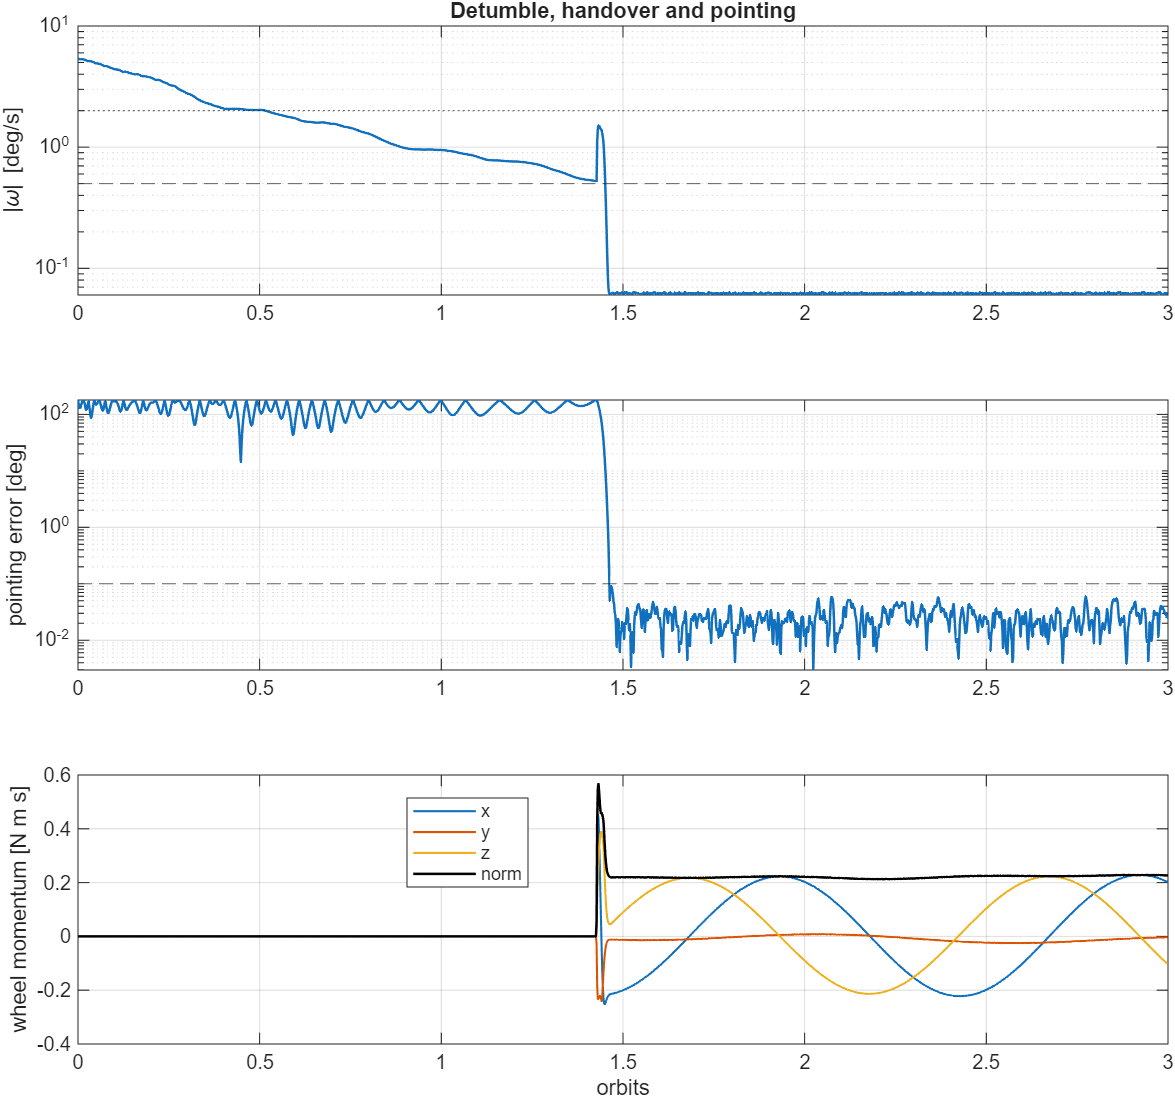
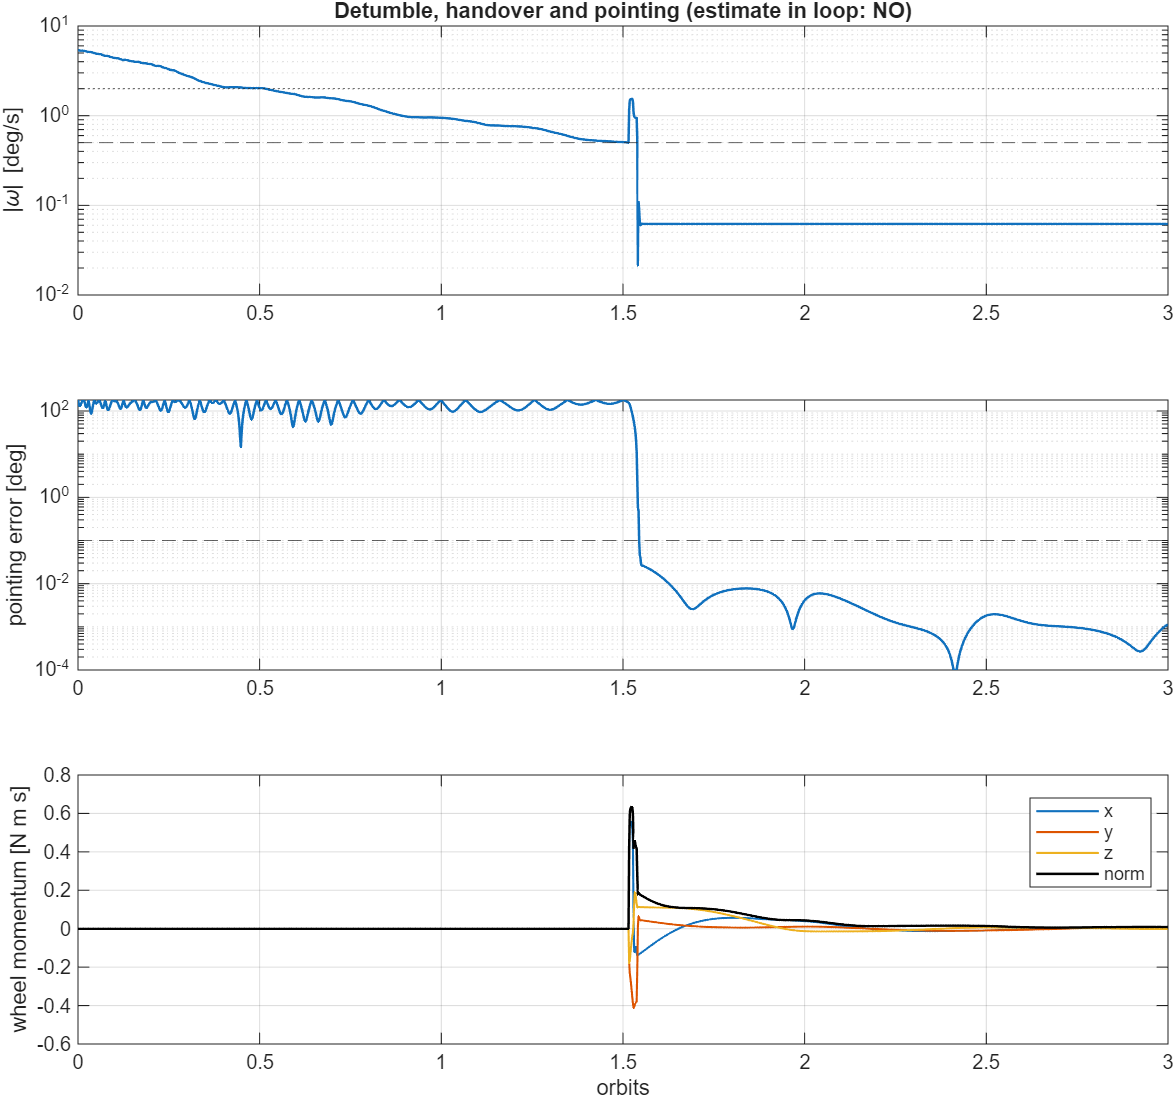
Estimate-in-loop mission run with dumping; Monte Carlo script

diff --git a/experiments/run_monte_carlo.m b/experiments/run_monte_carlo.m
@@ -1,0 +1,97 @@
+function res = run_monte_carlo(nRuns)
+% Monte Carlo of the full mission (tumble, B-dot detumble, handover, wheel capture, pointing with
+% magnetic momentum dumping) with the estimate in the loop. Per run: random tip-off rate (3 to
+% 6 deg/s, random direction), random initial attitude, random initial gyro bias (+-1.5 deg/h per
+% axis) and new noise seeds for magnetometer, gyro, gyro bias drift and star tracker.
+% Not varied: inertia, actuator and sensor error models (the model has one P.inertia for plant and
+% filter), disturbance size. Draws use rng(2026), so the table is reproducible.
+% Statistics over the last 2000 s of each run. Logged every 10 s, so peaks between samples are not seen.
+if nargin < 1, nRuns = 20; end
+root = fileparts(fileparts(mfilename('fullpath')));
+p0 = smallsat_params;
+period = 2*pi*sqrt((p0.Re + p0.altitude)^3/p0.mu);
+mdl = 'smallsat_adcs';
+wasLoaded = bdIsLoaded(mdl);
+cleanup = onCleanup(@() evalin('base', 'clear adcsCase paramOverride'));
+assignin('base', 'adcsCase', 'tumble');
+rng(2026);
+seedBlocks = {sprintf('Random\nNumber'), [41 42 43]; sprintf('Random\nNumber1'), [51 52 53]; ...
+              sprintf('Random\nNumber2'), [61 62 63]; 'noise', [11 22 33]};
+arc = 180/pi*3600;
+res = struct('run', num2cell(1:nRuns));
+fprintf('%4s %8s %9s %9s %9s %9s %9s %9s %9s\n', 'run', 'tip-off', 'handover', 'capture', 'point', 'point', 'knowledge', 'h last', 'dipole');
+fprintf('%4s %8s %9s %9s %9s %9s %9s %9s %9s\n', '', '[deg/s]', '[s]', '[s]', 'mean[deg]', 'max[deg]', 'rms[arcs]', 'max[Nms]', 'max[Am2]');
+for i = 1:nRuns
+    d = randn(3, 1); d = d/norm(d);
+    rate = (3 + 3*rand)*pi/180;
+    qi = randn(4, 1); qi = qi/norm(qi);
+    bias = (2*rand(3, 1) - 1)*1.5*pi/180/3600;
+    assignin('base', 'paramOverride', struct('tipOffRate', rate*d, 'initialQuat', qi, 'gyroBias0', bias));
+    in = Simulink.SimulationInput(mdl);
+    in = in.setBlockParameter([mdl '/use_estimate'], 'Value', '1');
+    for b = 1:size(seedBlocks, 1)
+        in = in.setBlockParameter([mdl '/Sensors/' seedBlocks{b, 1}], 'Seed', mat2str(seedBlocks{b, 2} + 1000*i));
+    end
+    out = sim(in);
+    m = metrics(out, p0, period, arc);
+    m.tipOff = rate*180/pi;
+    fn = fieldnames(m);
+    for k = 1:numel(fn), res(i).(fn{k}) = m.(fn{k}); end
+    fprintf('%4d %8.2f %9.0f %9.0f %9.4f %9.4f %9.1f %9.3f %9.1f\n', i, m.tipOff, m.handover, m.capture, ...
+        m.pointMean, m.pointMax, m.knowRms, m.hMax, m.dipoleMax);
+end
+ok = [res.handover] > 0 & ~isnan([res.capture]);
+fprintf('\n%d of %d runs reached pointing (handover and capture inside the run)\n', sum(ok), nRuns);
+f = {'handover', 'capture', 'pointMean', 'pointMax', 'knowRms', 'hMax', 'dipoleMax'};
+fprintf('%-10s %12s %12s %12s %12s\n', '', 'mean', 'std', 'worst', 'best');
+for k = 1:numel(f)
+    v = [res(ok).(f{k})];
+    fprintf('%-10s %12.4g %12.4g %12.4g %12.4g\n', f{k}, mean(v), std(v), max(v), min(v));
+end
+outDir = fullfile(root, 'results');
+if ~exist(outDir, 'dir'), mkdir(outDir); end
+save(fullfile(outDir, 'monte_carlo.mat'), 'res');
+if ~wasLoaded, close_system(mdl, 0); end
+end
+
+function m = metrics(out, p, period, arc)
+t = out.t_log(:);
+q = log_rows(out.q_log);
+qref = log_rows(out.qref_log);
+tauW = log_rows(out.tauW_log);
+h = log_rows(out.h_log);
+mt = log_rows(out.m_log);
+errDeg = zeros(numel(t), 1);
+for k = 1:numel(t)
+    qe = quat_mul([qref(k, 1); -qref(k, 2:4)'], q(k, :)');
+    errDeg(k) = 2*atan2(norm(qe(2:4)), abs(qe(1)))*180/pi;
+end
+i0 = find(any(tauW ~= 0, 2), 1);
+if isempty(i0)
+    m = struct('handover', 0, 'capture', NaN, 'pointMean', NaN, 'pointMax', NaN, 'knowRms', NaN, 'hMax', NaN, 'dipoleMax', NaN);
+    return
+end
+tEng = t(i0);
+bad = find(errDeg >= 0.1 & t >= tEng, 1, 'last');
+if isempty(bad), cap = 0; elseif bad == numel(t), cap = NaN; else, cap = t(bad + 1) - tEng; end
+tail = t >= t(end) - 2000;
+qHat = log_rows(out.estQ_log);
+step = round(10/p.gyroStep);
+idx = 1:step:size(qHat, 1);
+qHat = qHat(idx, :);
+e = zeros(sum(tail), 1);
+rows = find(tail);
+for j = 1:numel(rows)
+    d = quat_mul([qHat(rows(j), 1); -qHat(rows(j), 2:4)'], q(rows(j), :)');
+    e(j) = 2*atan2(norm(d(2:4)), abs(d(1)))*arc;
+end
+lastOrbit = t >= t(end) - period;
+after = t >= tEng + 10;
+m.handover = tEng;
+m.capture = cap;
+m.pointMean = mean(errDeg(tail));
+m.pointMax = max(errDeg(tail));
+m.knowRms = sqrt(mean(e.^2));
+m.hMax = max(vecnorm(h(lastOrbit, :), 2, 2));
+m.dipoleMax = max(max(abs(mt(after, :))));
+end

diff --git a/src/params/smallsat_params.m b/src/params/smallsat_params.m
@@ -30,6 +30,7 @@ p.sensorStep = 1;
 p.magSigma = 1e-7;
 p.mtqMax = 30;
 p.tipOffRate = [3; -2; 4]*pi/180;
+p.initialQuat = [0.5; 0.5; -0.5; 0.5];   % attitude after separation, inertial to body
 p.detumbleTarget = 0.5*pi/180;
 p.detumbleExit = 2.0*pi/180;
 p.bdotTauOrbits = 0.5;

diff --git a/src/plant/initial_state_tumble.m b/src/plant/initial_state_tumble.m
@@ -3,6 +3,6 @@ function ic = initial_state_tumble(p)
 base = initial_state(p, 0);
 ic.r = base.r;
 ic.v = base.v;
-ic.q = [0.5; 0.5; -0.5; 0.5];
+ic.q = p.initialQuat(:)/norm(p.initialQuat);
 ic.w = p.tipOffRate(:);
 end
